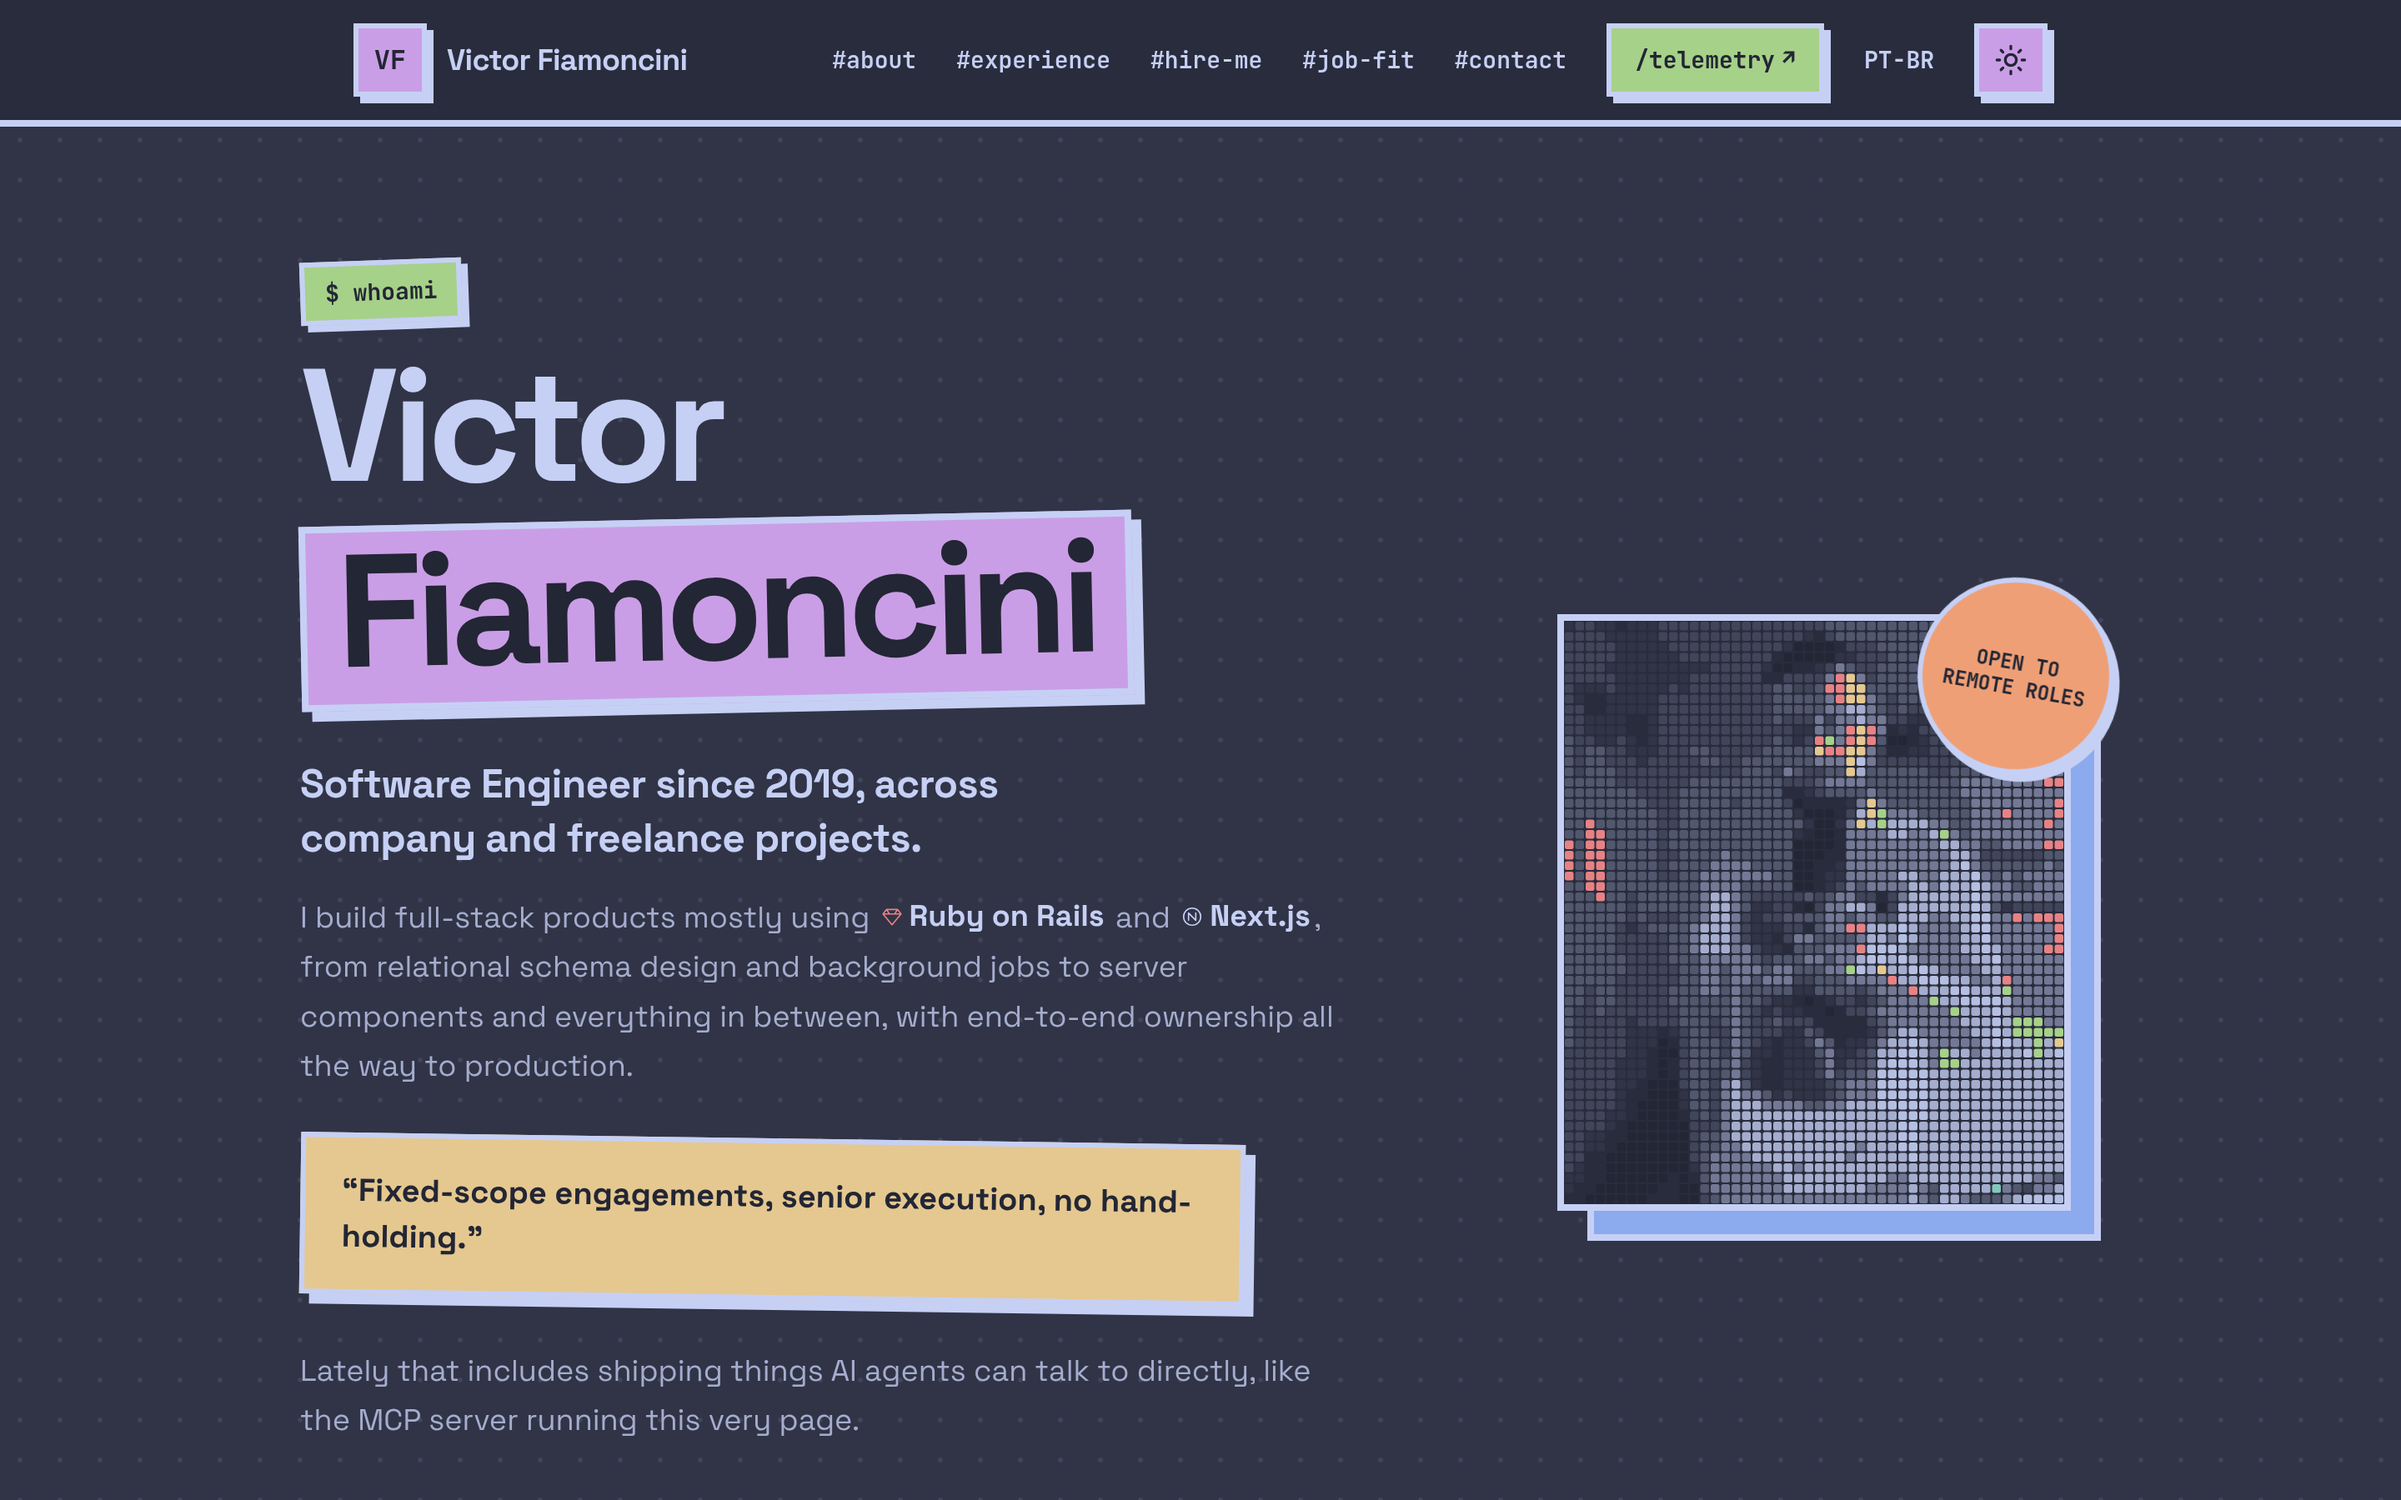
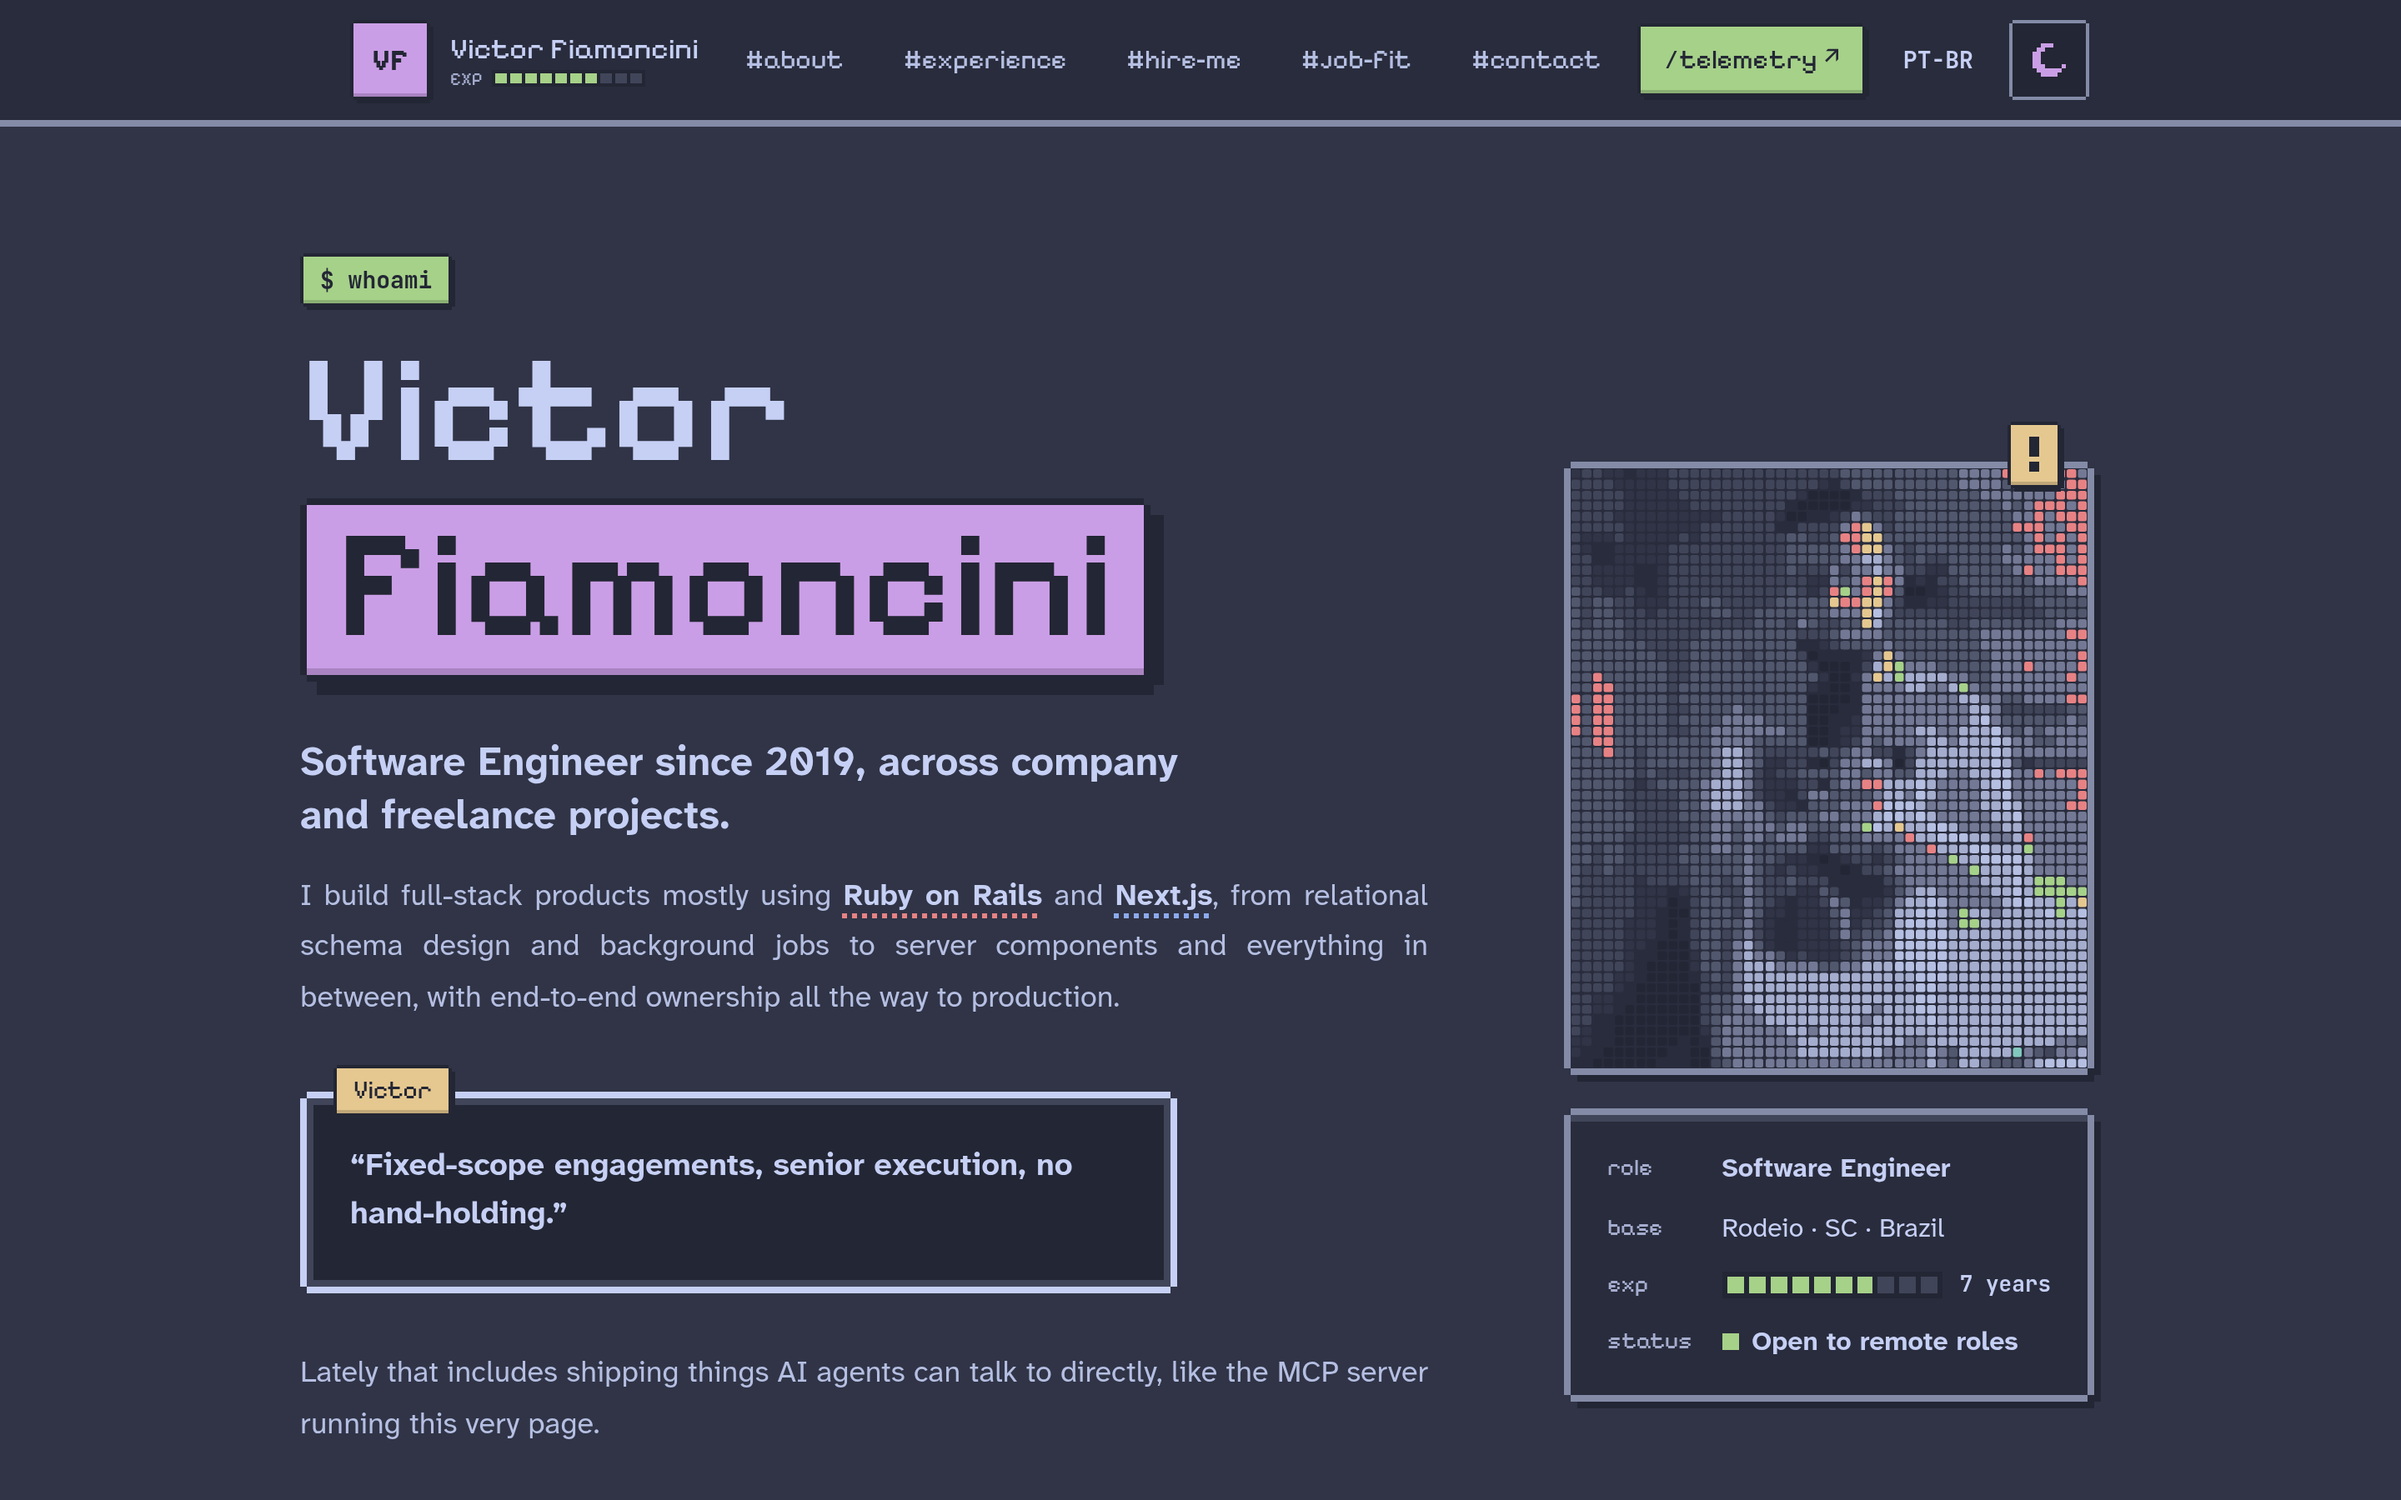
docs: refresh README screenshots for the pixel-art UI and fix stale docs
- README: new desktop/mobile screenshots of the pixel-art redesign; list
  static/errors controllers and JsonRpcRequest; describe the full spec
  suite; add bin/ci; fix the Cloudflare section's rate-limit pointer and
  re-verify the MCP bot exemption after the 2026-09-15 toggle change.
- CLAUDE.md: rate_limit covers every Api:: endpoint; system specs also
  cover the job matcher and theme toggle.
- llms.txt summary mentions match_job alongside the other tools.
- validate skill: drop the stale system-spec count.

Changed region(s): [[0.125, 0.1556, 0.5938, 0.9644], [0.625, 0.28, 0.9062, 0.9333], [0.0, 0.0, 1.0, 0.0933]]

diff --git a/README.md b/README.md
@@ -52,7 +52,9 @@ fit, check availability, and book a meeting directly.
 - **Resend** — transactional email for the contact form and meeting bookings (`:test` delivery in development)
 - **Sentry** (`sentry-ruby`/`sentry-rails`) — exception monitoring, DSN pulled from encrypted credentials
 - **Better Stack** (`logtail-rails`) — production log drain plus structured events on the API/MCP endpoints, emitted with Rails 8.1's `Rails.event`
-- **RSpec** — model, service, and request specs
+- **RSpec** — use case, model, request, mailer and Cuprite system specs, plus a `spec/security/`
+  attack suite (prompt injection, XSS, CSRF, SQL/email injection, DoS), with SimpleCov line and
+  branch coverage
 
 ## Architecture
 
@@ -63,7 +65,9 @@ the app had before this migration:
 app/
 ├── controllers/
 │   ├── api/                   # every JSON endpoint: Public (telemetry, mcp, hire) and Form (contact, job_match)
-│   ├── pages_controller.rb    # home page
+│   ├── pages_controller.rb    # home page + locale-detecting redirect from the bare /
+│   ├── static_controller.rb   # /AGENTS.md, /llms.txt, /sitemap.xml
+│   ├── errors_controller.rb   # localized 404 page (config.exceptions_app)
 │   └── telemetry_page_controller.rb
 ├── use_cases/                 # framework-agnostic business logic (constructor-injected deps)
 ├── events/                    # everything serving Rails.event: the non-production subscriber,
@@ -73,7 +77,8 @@ app/
 │                              # schedule_meeting, match_job
 ├── clients/                   # outbound HTTP: OpenaiEmbedder, OpenaiClient, GithubReadmeClient
 ├── mailers/                   # ContactMailer, MeetingMailer
-├── models/                    # Booking (unique slot_start), AgentConnection, KnowledgeChunk
+├── models/                    # Booking (unique slot_start), AgentConnection, KnowledgeChunk,
+│                              # JsonRpcRequest (plain object peeking at an MCP body)
 └── javascript/controllers/    # 9 Stimulus controllers (telemetry polling, mobile nav, theme, etc.)
 
 lib/                           # static, request-independent site facts and the text built from
@@ -191,8 +196,9 @@ what production would ship without sending anything.
 ```bash
 bin/dev                  # Rails server + Tailwind CSS watcher
 bin/rails server          # Rails server only
-bundle exec rspec         # Run the test suite
+bundle exec rspec         # Run the test suite (prints line + branch coverage)
 bin/rubocop               # Lint (rubocop-rails-omakase)
+bin/ci                    # Full CI gate: RuboCop, gem + importmap audits, Brakeman, Tailwind build, specs
 bin/rails db:migrate       # Run pending migrations
 bin/rails knowledge:ingest # (Re)embed the RAG corpus; only changed chunks are re-embedded
 ```
@@ -373,9 +379,9 @@ shared web + MCP cap of 100 calls/day was reached (`surface` says which one hit 
   `200` means it's working; `403` means the exception rule is missing, disabled, or the Skip
   checkboxes regressed to just "All managed rules".
 
-  **Note**: Cloudflare is deprecating the standalone "Block AI bots" toggle on 2026-09-15 in favor
-  of a "mixed-purpose crawlers" preference under AI Crawl Control. Re-check this exemption still
-  passes the `curl` above after that date.
+  **Note**: Cloudflare scheduled the standalone "Block AI bots" toggle's deprecation for 2026-09-15, in favor of
+  a "mixed-purpose crawlers" preference under AI Crawl Control. The exemption still passed the
+  `curl` above (`200`) when re-checked on 2026-11-27.
 
 - **Custom WAF rules** (Security → Security rules → Custom rules) drop obvious junk at the edge
   before it reaches Rails. Two Block rules sit *after* the MCP Skip rule above, so neither touches
@@ -409,10 +415,10 @@ shared web + MCP cap of 100 calls/day was reached (`surface` says which one hit 
   legitimate AI-agent traffic: the "Allow AI agents on MCP endpoint" Skip rule above does **not**
   check "All rate limiting rules" (so it can't exempt `/api/mcp` from this one even if we wanted
   it to), but 60 req/10s per IP is far more than a normal agent session's handful of tool calls
-  would ever hit — only an actual flood trips it. App-level rate limiting
-  (`Api::ContactsController`/`Api::McpController`'s `rate_limit` macro, see Architecture below) still
-  layers on top for `/api/mcp` and `/api/contact` with tighter, tool-aware thresholds (e.g. a stricter
-  limit specifically on `schedule_meeting` calls) that this coarse edge rule can't express.
+  would ever hit — only an actual flood trips it. App-level rate limiting (Rails' `rate_limit`
+  macro on every `Api::` endpoint, see [Architecture](#architecture) above) still layers on top
+  with tighter, tool-aware thresholds (e.g. a stricter limit specifically on `schedule_meeting`
+  calls, and a shared daily budget for `match_job`) that this coarse edge rule can't express.
 - **Bot Fight Mode** (Security → Settings, under "Bot traffic") is safe to enable here specifically
   *because* the MCP exemption rule already checks "All Super Bot Fight Mode Rules" — confirm that
   checkbox is still checked before turning this on, or it will 403 AI-agent traffic to `/api/mcp`

diff --git a/CLAUDE.md b/CLAUDE.md
@@ -148,8 +148,9 @@ config/
   use the subclass's own namespace (`contact.*`, `job_match.*`). A new endpoint picks its parent
   by that question; never make a browser-form endpoint a `PublicController`, since that silently
   drops CSRF.
-- **Rate limiting**: Rails 8's declarative `rate_limit` macro in `Api::ContactsController`,
-  `Api::JobMatchesController` and `Api::McpController`, backed by `Rails.cache` (Solid Cache in dev/production, `MemoryStore` in
+- **Rate limiting**: Rails 8's declarative `rate_limit` macro on every `Api::` endpoint
+  (`Api::ContactsController`, `Api::HireController`, `Api::JobMatchesController`,
+  `Api::McpController`, `Api::TelemetryController`), backed by `Rails.cache` (Solid Cache in dev/production, `MemoryStore` in
   test). Limits key on the macro's default, `request.remote_ip`: kamal-proxy runs with
   `forward_headers: true` and `config/initializers/trusted_proxies.rb` trusts Cloudflare's ranges,
   so it resolves to the real visitor, and forged `X-Forwarded-For` values from a non-Cloudflare
@@ -302,7 +303,8 @@ There are **no view specs** and `config.infer_spec_type_from_file_location!` sta
 so a file under `spec/views/` wouldn't even get `type: :view` without saying so. Templates are
 covered through the layer that renders them: mailer views by `spec/mailers/*` (eyeball them at
 `/rails/mailers`, fed by `spec/mailers/previews/`), `sitemap.xml.erb`
-by `spec/requests/static_spec.rb`, the contact form and telemetry feed by `spec/system/*`, and the
+by `spec/requests/static_spec.rb`, the contact form, job matcher, telemetry feed and theme toggle by
+`spec/system/*`, and the
 `<head>` SEO block by `spec/requests/pages_spec.rb` (JSON-LD, hreflang and canonical fail silently
 — a broken one looks fine on the page). The rest of `app/views/` is smoke-covered only: it renders
 during `get /en`, so a raise fails the suite, but nothing pins its content, since markup

diff --git a/.claude/skills/validate/SKILL.md b/.claude/skills/validate/SKILL.md
@@ -46,7 +46,7 @@ docker compose up -d                                          # if it's not list
 ```
 
 **System specs need the Tailwind build.** `app/assets/builds/` is gitignored, so a fresh clone or
-`git worktree` has no CSS and the five Cuprite system specs drive a headless browser against an
+`git worktree` has no CSS and the Cuprite system specs drive a headless browser against an
 unstyled page — failures like `expect(page).not_to have_button("Reach Out")` read like a broken
 feature but aren't. Fix with `bin/rails tailwindcss:build` (`bin/ci` and `bin/dev` handle it).
 
